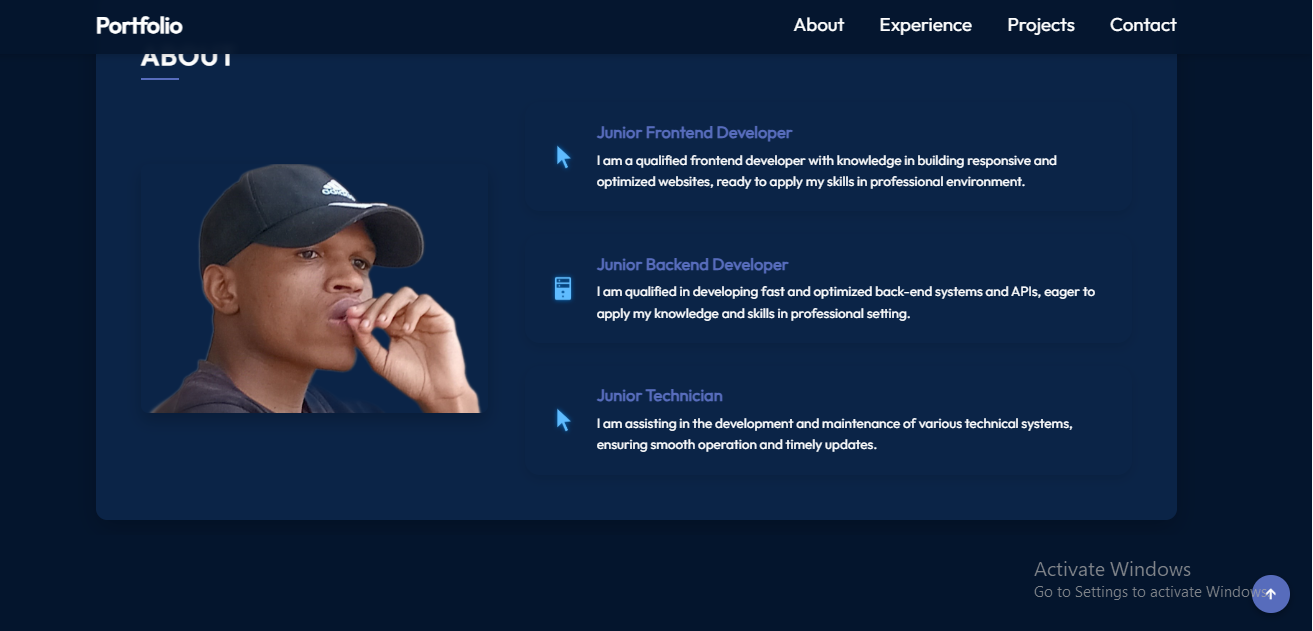
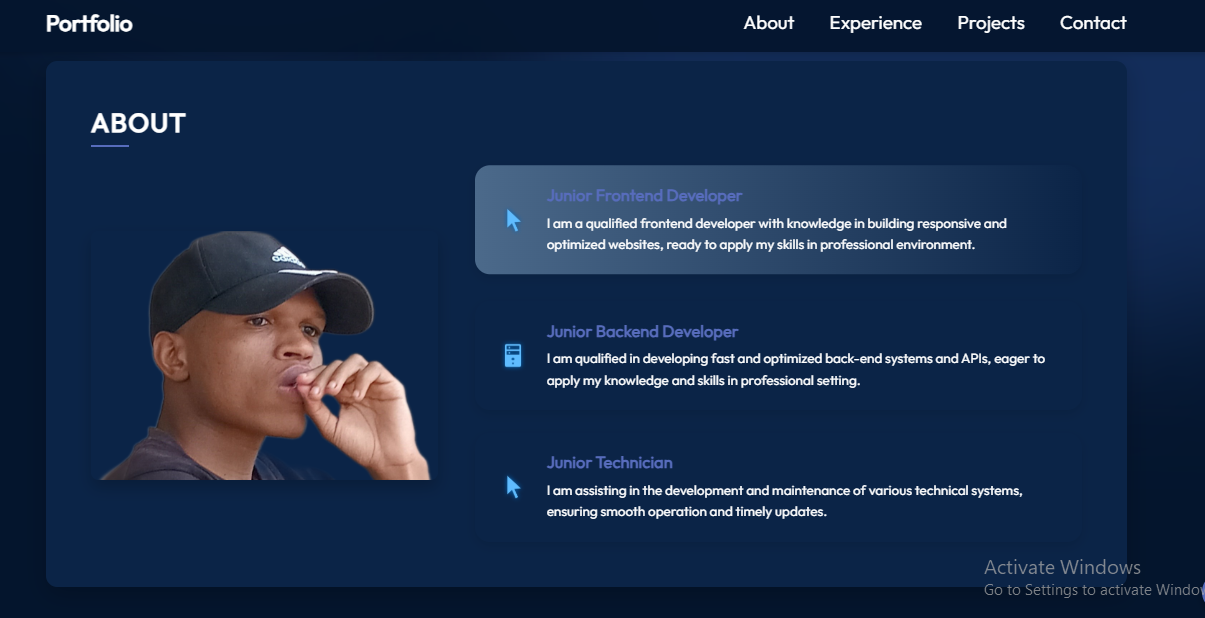
Refactor CSS styles for improved layout and spacing

diff --git a/src/App.module.css b/src/App.module.css
@@ -5,7 +5,7 @@
   width: 100%;
   min-height: 100vh;
   position: relative;
-  overflow-x: hidden; /* Prevent horizontal scroll */
+  overflow-x: hidden; 
   display: flex;
   flex-direction: column;
 }
@@ -14,7 +14,7 @@
   width: 100%;
   position: relative;
   padding: 0;
-  margin: 0 0 40px 0; /* Add more space between sections */
-  overflow: visible; /* Allow content to be visible */
+  margin: 0 0 40px 0; 
+  overflow: visible; 
   display: block;
 }

diff --git a/src/Components/Hero/Hero.module.css b/src/Components/Hero/Hero.module.css
@@ -5,7 +5,7 @@
   display: flex;
   align-items: center;
   justify-content: space-between;
-  margin-top: 80px;
+  margin-top: 30px;
   z-index: 1;
   margin-left: 10%;
   margin-right: 10%;

diff --git a/src/Components/Navbar/Navbar.module.css b/src/Components/Navbar/Navbar.module.css
@@ -6,7 +6,7 @@
   flex-direction: row;
   justify-content: space-between;
   align-items: center;
-  position: fixed;
+  position: none;
   left: 0;
   right: 0;
   top: 0;

diff --git a/src/index.css b/src/index.css
@@ -8,7 +8,7 @@
 html, body {
     width: 100%;
     min-height: 100vh;
-    overflow-x: hidden; /* Prevent horizontal scroll */
+    overflow-x: hidden;
 }
 
 html {
